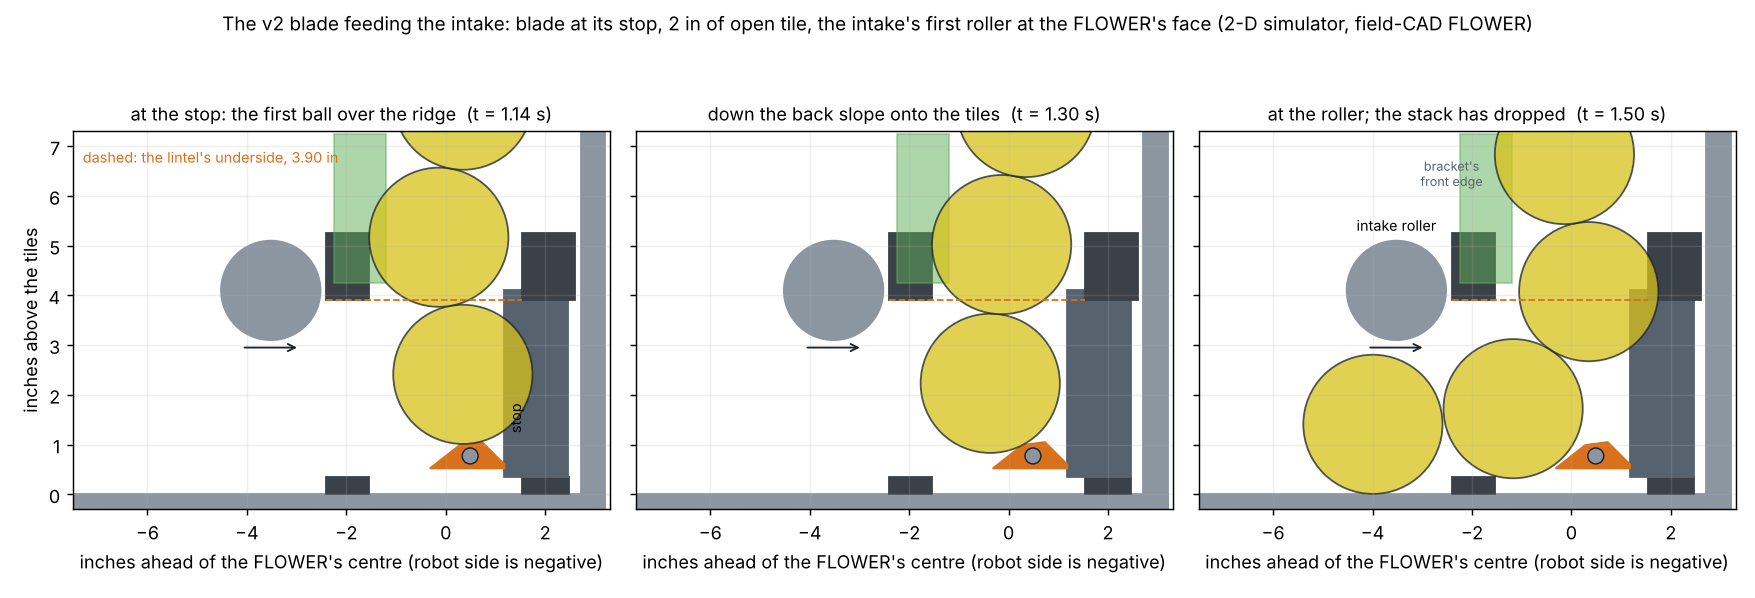
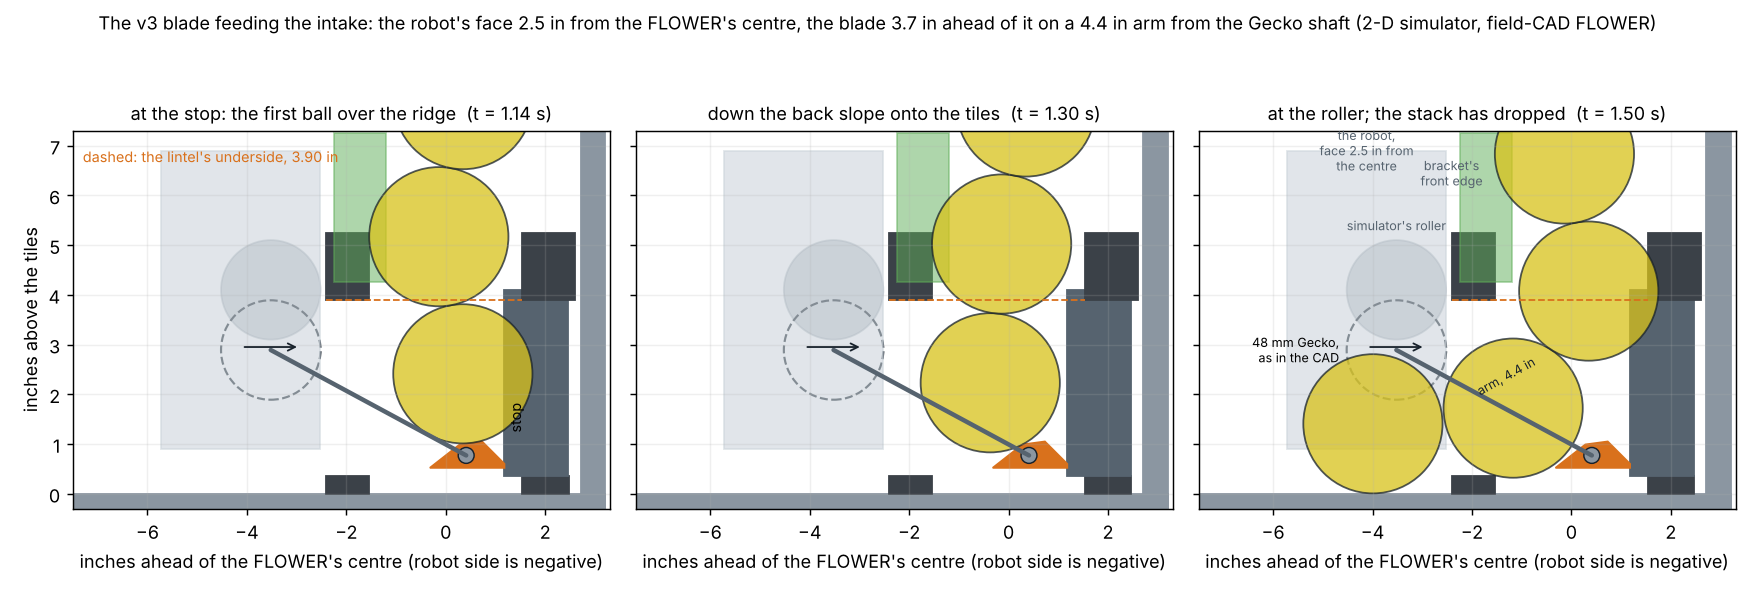
FLOWER stick: v3 plain, the three-profile figure, the intake sim on v3 with the real Gecko
profiles_compare.py draws Block A, v2 and v3 at their stops with the
pinned POLLEN resting on each. intake_sim.py now runs the v3 mountain
with the first roller where the 16 Oct CAD has it (48 mm Gecko, axle
2.89 in high, rims at the robot's face); intake_section.py draws the
Gecko, the robot's face and the 4.4 in arm.

Claude-Session: https://claude.ai/code/session_01FwyCebEKmJFFGeAJNoEXmE

diff --git a/cad/modules/flower-stick-proto/profiles_compare.py b/cad/modules/flower-stick-proto/profiles_compare.py
@@ -1,0 +1,57 @@
+"""Three blade profiles at their stop in the FLOWER's slice, with the pinned POLLEN resting on each: Block A as driven
+on 15 Oct (steep face first, ramp toward the robot), the v2 lane, and v3 the mountain. Writes profiles_compare.png.
+
+    python3 cad/modules/flower-stick-proto/profiles_compare.py
+"""
+import math, os
+import matplotlib
+matplotlib.use("Agg")
+import matplotlib.pyplot as plt
+from matplotlib.patches import Circle, Polygon
+from stack_sequence import draw_flower
+HERE = os.path.dirname(os.path.abspath(__file__))
+R, PIN = 1.4, 0.35
+# (name, stop x in the FLOWER frame, profile x behind the lip / z, note)
+BLADES = [
+    ("Block A, 15 Oct: steep face first, ramp toward the robot", 1.75, [(0.0, 0.52), (0.0, 0.64), (0.2, 1.30), (0.7, 1.30), (1.4, 0.52)],
+     "face leans 17°: stalls.\nIts curved tip passes the uprights' points, so it stops 0.57 in deeper,\nwith the ball over the ramp's foot"),
+    ("v2 lane: 45° nose, ridge 1.05, 8° run, 38° down", 1.18, [(0.0, 0.52), (0.0, 0.60), (0.45, 1.05), (0.90, 0.99), (1.50, 0.52)],
+     "the run exists only to leave 1.5 mm of skin over the shaft;\nedge at 0.60 meets the ball at 35°"),
+    ("v3 mountain: 55° nose, peak 1.28, 45° down", 1.18, [(0.0, 0.52), (0.0, 0.53), (0.53, 1.28), (1.29, 0.52)],
+     "one profile the full width; peak 0.30 in past the pinned ball;\n8.8 mm over the shaft; edge at 0.53 meets the ball at 38°"),
+]
+
+
+def rest_height(pts, cx):
+    """The height of a ball of radius R centred at x = cx resting on the polyline pts (FLOWER frame) or the tiles."""
+    best = R
+    for (ax, az), (bx, bz) in zip(pts, pts[1:]):
+        ex, ez = bx - ax, bz - az; L2 = ex * ex + ez * ez
+        # the ball touches the segment: find the centre height z such that the distance from (cx, z) to the segment is R
+        for z in [R + i * 0.005 for i in range(0, 400)]:
+            t = max(0.0, min(1.0, ((cx - ax) * ex + (z - az) * ez) / L2)); px, pz = ax + t * ex, az + t * ez
+            if math.hypot(cx - px, z - pz) >= R:
+                best = max(best, z); break
+    return best
+
+
+fig, axes = plt.subplots(1, 3, figsize=(13.5, 4.9), sharey=True)
+for ax, (name, stop, prof, note) in zip(axes, BLADES):
+    draw_flower(ax)
+    pts = [(stop - x, z) for x, z in prof]
+    ax.add_patch(Polygon(pts, closed=True, color="#d9711c"))
+    rod = (stop - (0.93 if name.startswith("Block A") else 0.77), 0.77)
+    ax.add_patch(Circle(rod, 0.16, color="#8b96a1", ec="#17212b", lw=0.8))
+    z = rest_height(pts, PIN)
+    ax.add_patch(Circle((PIN, z), R, facecolor="#d8c21a", edgecolor="#17212b", alpha=.75))
+    ax.annotate("", (PIN - 1.2, z), (PIN - R - 0.1, z), arrowprops=dict(arrowstyle="->", color="#17212b", lw=1.5)) if not name.startswith("Block A") else None
+    ax.plot([PIN, PIN], [-0.3, 0.2], color="#17212b", lw=0.8, ls=":")
+    ax.text(PIN, -0.25, "pinned ball", fontsize=7, ha="center", va="bottom", color="#17212b")
+    ax.set_xlim(-4.0, 3.3); ax.set_ylim(-0.3, 4.6); ax.set_aspect("equal"); ax.grid(alpha=.2)
+    ax.set_title(name, fontsize=9.5)
+    ax.text(-3.9, 4.45, note, fontsize=7.5, va="top", color="#56636f", bbox=dict(boxstyle="round,pad=0.3", fc="white", ec="none", alpha=.85))
+    ax.set_xlabel("inches ahead of the FLOWER's centre", fontsize=9)
+axes[0].set_ylabel("inches above the tiles")
+fig.suptitle("Three profiles at their stop, the bottom POLLEN resting on each (FLOWER from the field CAD; the robot is to the left)", fontsize=10.5)
+fig.tight_layout()
+out = os.path.join(HERE, "profiles_compare.png"); fig.savefig(out, dpi=130); print(out)

diff --git a/cad/modules/flower-stick-proto/intake_section.py b/cad/modules/flower-stick-proto/intake_section.py
@@ -14,6 +14,7 @@ d = json.load(open(os.path.join(ROOT, "tools", "ramp-hook", "intake_trace.json")
 CX, R = d["cx"], 1.4
 fx = lambda xs: CX - xs                     # sim x -> FLOWER x (+ toward the wall)
 prof, (rx, rz, rr), stop = d["profile"], d["roller"], fx(d["tip_stop"])
+gecko_z = d.get("gecko_z", 2.89)
 frames = d["trace"]
 arrive = next(i for i, f in enumerate(frames) if f[1] <= d["tip_stop"] + 1e-6)
 picks = [(arrive, "at the stop: the first ball over the ridge"), (arrive + 8, "down the back slope onto the tiles"), (arrive + 18, "at the roller; the stack has dropped")]
@@ -33,8 +34,12 @@ for ax, (i, lab) in zip(axes, picks):
     lip = fx(tip)
     pts = [(lip - x, z) for x, z in prof] + [(lip - prof[-1][0], 0.52), (lip, 0.52)]
     ax.add_patch(Polygon(pts, closed=True, color="#d9711c"))
-    ax.add_patch(Circle((lip - 0.69, 0.77), 0.16, color="#8b96a1", ec="#17212b", lw=0.8))    # the 8 mm shaft
-    ax.add_patch(Circle((lip - rx, rz), rr, color="#8b96a1"))
+    ax.add_patch(Circle((lip - 0.77, 0.77), 0.16, color="#8b96a1", ec="#17212b", lw=0.8))    # the 8 mm shaft
+    ax.add_patch(Circle((lip - rx, rz), rr, color="#8b96a1", alpha=.45))                      # the simulator's rigid roller
+    ax.add_patch(Circle((stop - rx, gecko_z), rr, fill=False, ec="#17212b", lw=1.2, ls="--"))  # the Gecko as in the CAD
+    ax.plot([stop - rx, lip - 0.77], [gecko_z, 0.77], color="#56636f", lw=2.5, solid_capstyle="round")   # the sled arm
+    face = stop - rx + rr                                                                                # the Gecko rims are flush with the robot's face
+    ax.add_patch(Rectangle((face - 3.2, 0.9), 3.2, 6.0, color="#cdd5dc", alpha=.6))                     # the robot, behind its face
     ax.annotate("", (lip - rx - 0.6, rz - rr - 0.15), (lip - rx + 0.6, rz - rr - 0.15), arrowprops=dict(arrowstyle="<-", color="#17212b"))
     for (xs, zs) in balls:
         ax.add_patch(Circle((fx(xs), zs), R, facecolor="#d8c21a", edgecolor="#17212b", alpha=.75))
@@ -46,8 +51,11 @@ for ax, (i, lab) in zip(axes, picks):
 axes[0].set_ylabel("inches above the tiles")
 axes[0].text(-7.3, 6.6, "dashed: the lintel's underside, 3.90 in", fontsize=8, color="#d9711c", va="bottom")
 axes[0].text(stop + 0.05, 1.3, "stop", fontsize=8, rotation=90)
-axes[2].text(stop - rx, rz + rr + 0.2, "intake roller", fontsize=8, ha="center")
+axes[2].text(stop - rx, rz + rr + 0.2, "simulator's roller", fontsize=7, ha="center", color="#56636f")
+axes[2].text(stop - rx - rr - 0.15, gecko_z, "48 mm Gecko,\nas in the CAD", fontsize=7, ha="right", va="center")
+axes[2].text(stop - rx + rr - 1.6, 6.5, "the robot,\nface 2.5 in from\nthe centre", fontsize=7, ha="center", color="#56636f")
+axes[2].text((stop - rx + lip - 0.77) / 2 - 0.4, (gecko_z + 0.77) / 2 + 0.15, "arm, 4.4 in", fontsize=7, rotation=29, color="#17212b")
 axes[2].text(-2.41, 6.2, "bracket's\nfront edge", fontsize=7, ha="center", color="#56636f")
-fig.suptitle("The v2 blade feeding the intake: blade at its stop, 2 in of open tile, the intake's first roller at the FLOWER's face (2-D simulator, field-CAD FLOWER)", fontsize=10.5)
+fig.suptitle("The v3 blade feeding the intake: the robot's face 2.5 in from the FLOWER's centre, the blade 3.7 in ahead of it on a 4.4 in arm from the Gecko shaft (2-D simulator, field-CAD FLOWER)", fontsize=10)
 fig.tight_layout()
 out = os.path.join(HERE, "intake_section.png"); fig.savefig(out, dpi=130); print(out)

diff --git a/cad/modules/flower-stick-proto/README.md b/cad/modules/flower-stick-proto/README.md
@@ -290,7 +290,7 @@ drive wheels' bottoms and x measured back from the intake uprights' front faces:
 So the mouth is the floor itself, at the front: the good case. For the FLOWER: the robot's face sits 2.5 in in front of
 the FLOWER's centre (0.1 in off the ring and the bracket), the blade's stop is 3.7 in ahead of the face, its shaft
 2.9 in ahead at 0.77 in high, which passes 0.66 in under the gecko row. The sled's arms can hang from the gecko shaft
-itself on bearings (about 3.6 in long) or pivot on the uprights beside the outer wheels. The 4.5 in disc clears the
+itself on bearings (4.4 in from the gecko axle to the blade's shaft) or pivot on the uprights beside the outer wheels. The 4.5 in disc clears the
 FLOWER only while the robot is within about 1 in of centred on it.
 
 **v3, the mountain (`v3_peak`, `--nose-deg 35 --land 0.01 --lane-top 1.28 --sh-top 1.28 --lane 5.0 --run-len 0.01
@@ -312,7 +312,7 @@ fixes it, the friction is higher than 0.4 and the next print gets a 50° nose.
 - `build.py`: the module, in his robot's frame. It writes `flower-stick-proto.step` (insert at the origin of his
   Onshape assembly) and the block STLs. `BLOCK=060|065|070` and `REACH=0|1` pick the variant.
 - `divot_blade.py`: the divot blade v2 (16 Oct): wedge nose, low lane, tall shoulders; every size a flag.
-- `stack_sequence.py`: the 15 Oct concept frame by frame (`stack_sequence.png`). `intake_section.py`: the blade feeding the intake, from `tools/ramp-hook/intake_sim.py`'s trace.
+- `stack_sequence.py`: the 15 Oct concept frame by frame (`stack_sequence.png`). `profiles_compare.py`: Block A, v2 and v3 at their stops with the pinned POLLEN. `intake_section.py`: v3 feeding the intake, from `tools/ramp-hook/intake_sim.py`'s trace (v3 profile, the Gecko as in the 16 Oct CAD).
 - `seated_in_field_cad.png`: the blade seated in FIRST's field CAD FLOWER.
 - `block.py`: the block's STL for any shaft height (`--shaft`) or wheel size (`--wheel-mm`).
 - `proto.png`: the picture above, drawn from his Robot.step.
